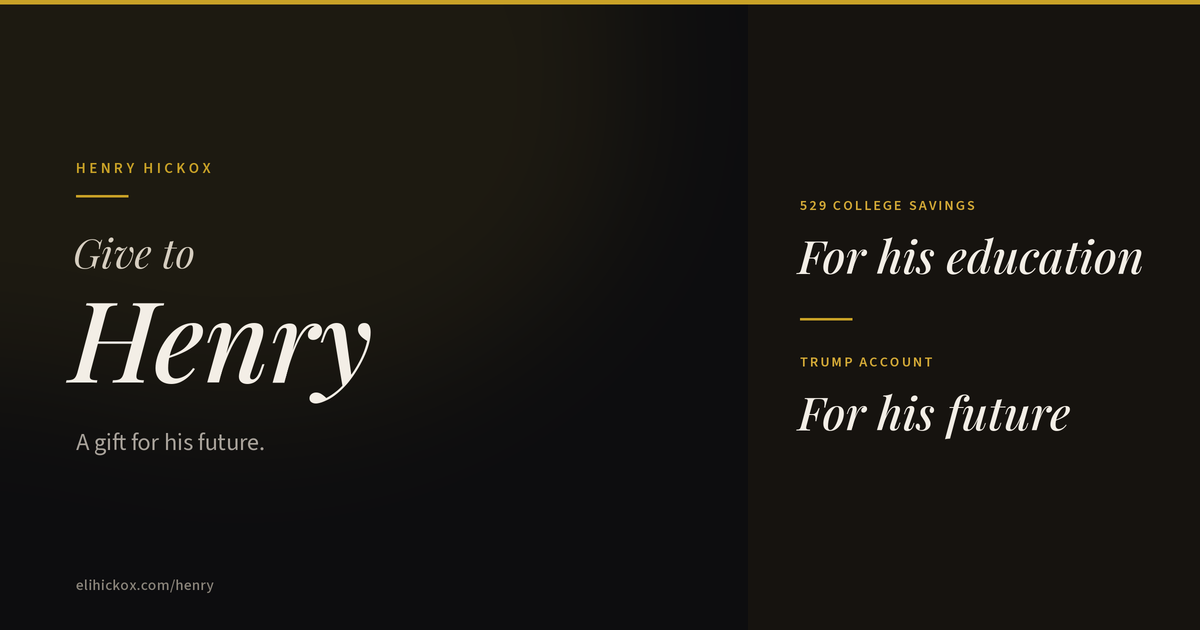
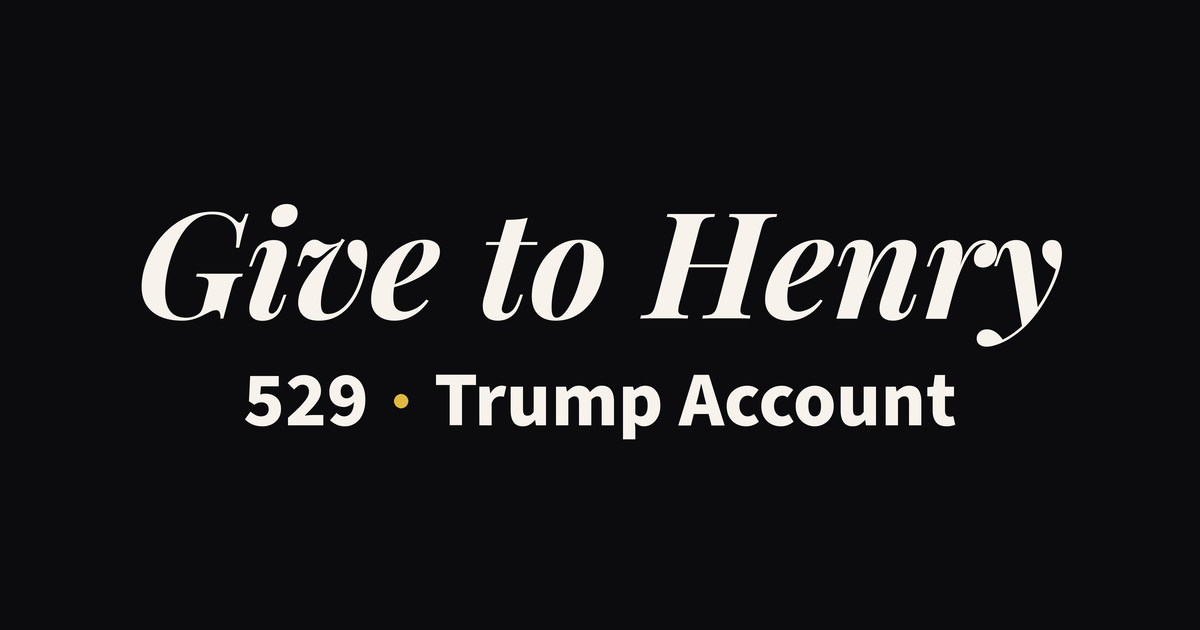
chore: better photo

diff --git a/app/views.py b/app/views.py
@@ -873,7 +873,7 @@ def henry():
         title="Give to Henry",
         description="Contribute to Henry Hickox's 529 college savings or Trump Account.",
         canonical_url=absolute_url("/henry"),
-        og_image=absolute_url("/static/og/henry-card.png"),
+        og_image=absolute_url("/static/og/henry-card.png?v=2"),
         og_image_width=1200,
         og_image_height=630,
         og_image_alt="Give to Henry. A 529 college savings gift or a Trump Account.",
